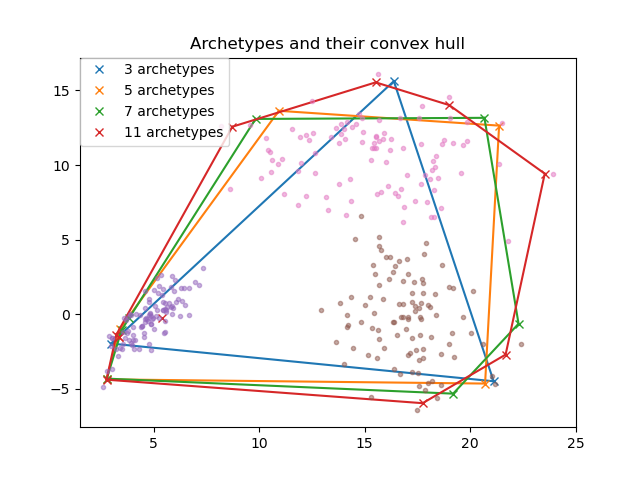
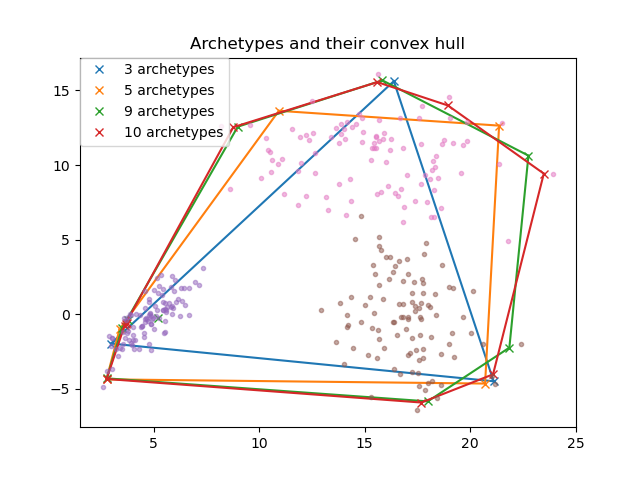
fixed plots

Changed region(s): [[0.1562, 0.1875, 0.875, 0.8438], [0.5625, 0.1562, 0.625, 0.1875], [0.1875, 0.2188, 0.2188, 0.2812]]

diff --git a/toyData/toyDataPlots.py b/toyData/toyDataPlots.py
@@ -4,7 +4,7 @@ from toyDataAA import toyDataAA
 from scipy.spatial import ConvexHull, convex_hull_plot_2d
 
 #run the AA based on number of archetypes
-numArchetypes=[3,5,7,11]
+numArchetypes=range(2,21)
 #numArchetypes=[3]
 archeTypesList=[]
 losses=[]
@@ -12,20 +12,33 @@ numIterations=10000
 for numArchetype in numArchetypes:
     data, archeTypes, loss_Adam = toyDataAA(numArchetypes=numArchetype,numIterations=numIterations)
     archeTypesList.append(archeTypes)
-    losses.append(loss_Adam)
+    losses.append(loss_Adam[-1])
 
 fig1, ax1 = plt.subplots()
-#plot the loss functions
-for idx,loss in enumerate(losses): 
-    ax1.plot(range(1,numIterations+1), loss, label=f'Loss with {numArchetypes[idx]} archetypes. Final loss: {loss[-1]:.2f}')
+#plot the loss as function of archetypes
+ax1.plot(numArchetypes, losses, label = "Loss as a function of number of archetypes")
 
-ax1.set_title('Loss Comparison')
-ax1.set_xlabel('Iteration')
+
+#for idx,loss in enumerate(losses): 
+#    ax1.plot(range(1,numIterations+1), loss, label=f'Loss with {numArchetypes[idx]} archetypes. Final loss: {loss[-1]:.2f}')
+
+#print loss on plot for every other archetype
+for a,b in zip(numArchetypes[::2], losses[::2]): 
+    plt.text(a, b, f"{b:.1f}")
+
+#set the ticks to every other archetype
+ax1.set_xticks(numArchetypes[::2])
+ax1.set_title('Loss Comparison After 10.000 Iterations')
+ax1.set_xlabel('Number of archetypes')
 ax1.set_ylabel('Loss')
 ax1.set_yscale('log')
 ax1.legend()
 fig1.savefig('toyData/plots/lossComparison.png')
 
+
+#we want to plot for 3,5,9,10 archetypes. That corresponds to index [1,3,7,8] 
+plottedArchetypes=[3,5,9,10]
+indexForArcheType=[x - 2 for x in plottedArchetypes]
 #plot the data together with the found archetypes. 
 distributions=[data[:,0:100],data[:,100:200],data[:,200:]]
 
@@ -35,12 +48,12 @@ matplotlibStandardcolors = ['#1f77b4', '#ff7f0e', '#2ca02c', '#d62728',
               '#9467bd', '#8c564b', '#e377c2', '#7f7f7f',
               '#bcbd22', '#17becf']
 
-for idx,archeTypes in enumerate(archeTypesList):    
+for idx,archeTypes in enumerate([archeTypesList[i] for i in indexForArcheType]):    
     points=archeTypes.T    
     hull = ConvexHull(points)    
     for simplex in hull.simplices:        
         ax2.plot(points[simplex, 0], points[simplex, 1],'k-',color=matplotlibStandardcolors[idx])   
-    ax2.plot(archeTypes[0,:], archeTypes[1,:], 'x', color=matplotlibStandardcolors[idx], alpha=1,label=f'{numArchetypes[idx]} archetypes')
+    ax2.plot(archeTypes[0,:], archeTypes[1,:], 'x', color=matplotlibStandardcolors[idx], alpha=1,label=f'{plottedArchetypes[idx]} archetypes')
 oldIdx=idx
 for idx,distribution in enumerate(distributions,oldIdx+1):
     ax2.plot(distribution[0,:], distribution[1,:], '.', color=matplotlibStandardcolors[idx], alpha=0.5)
